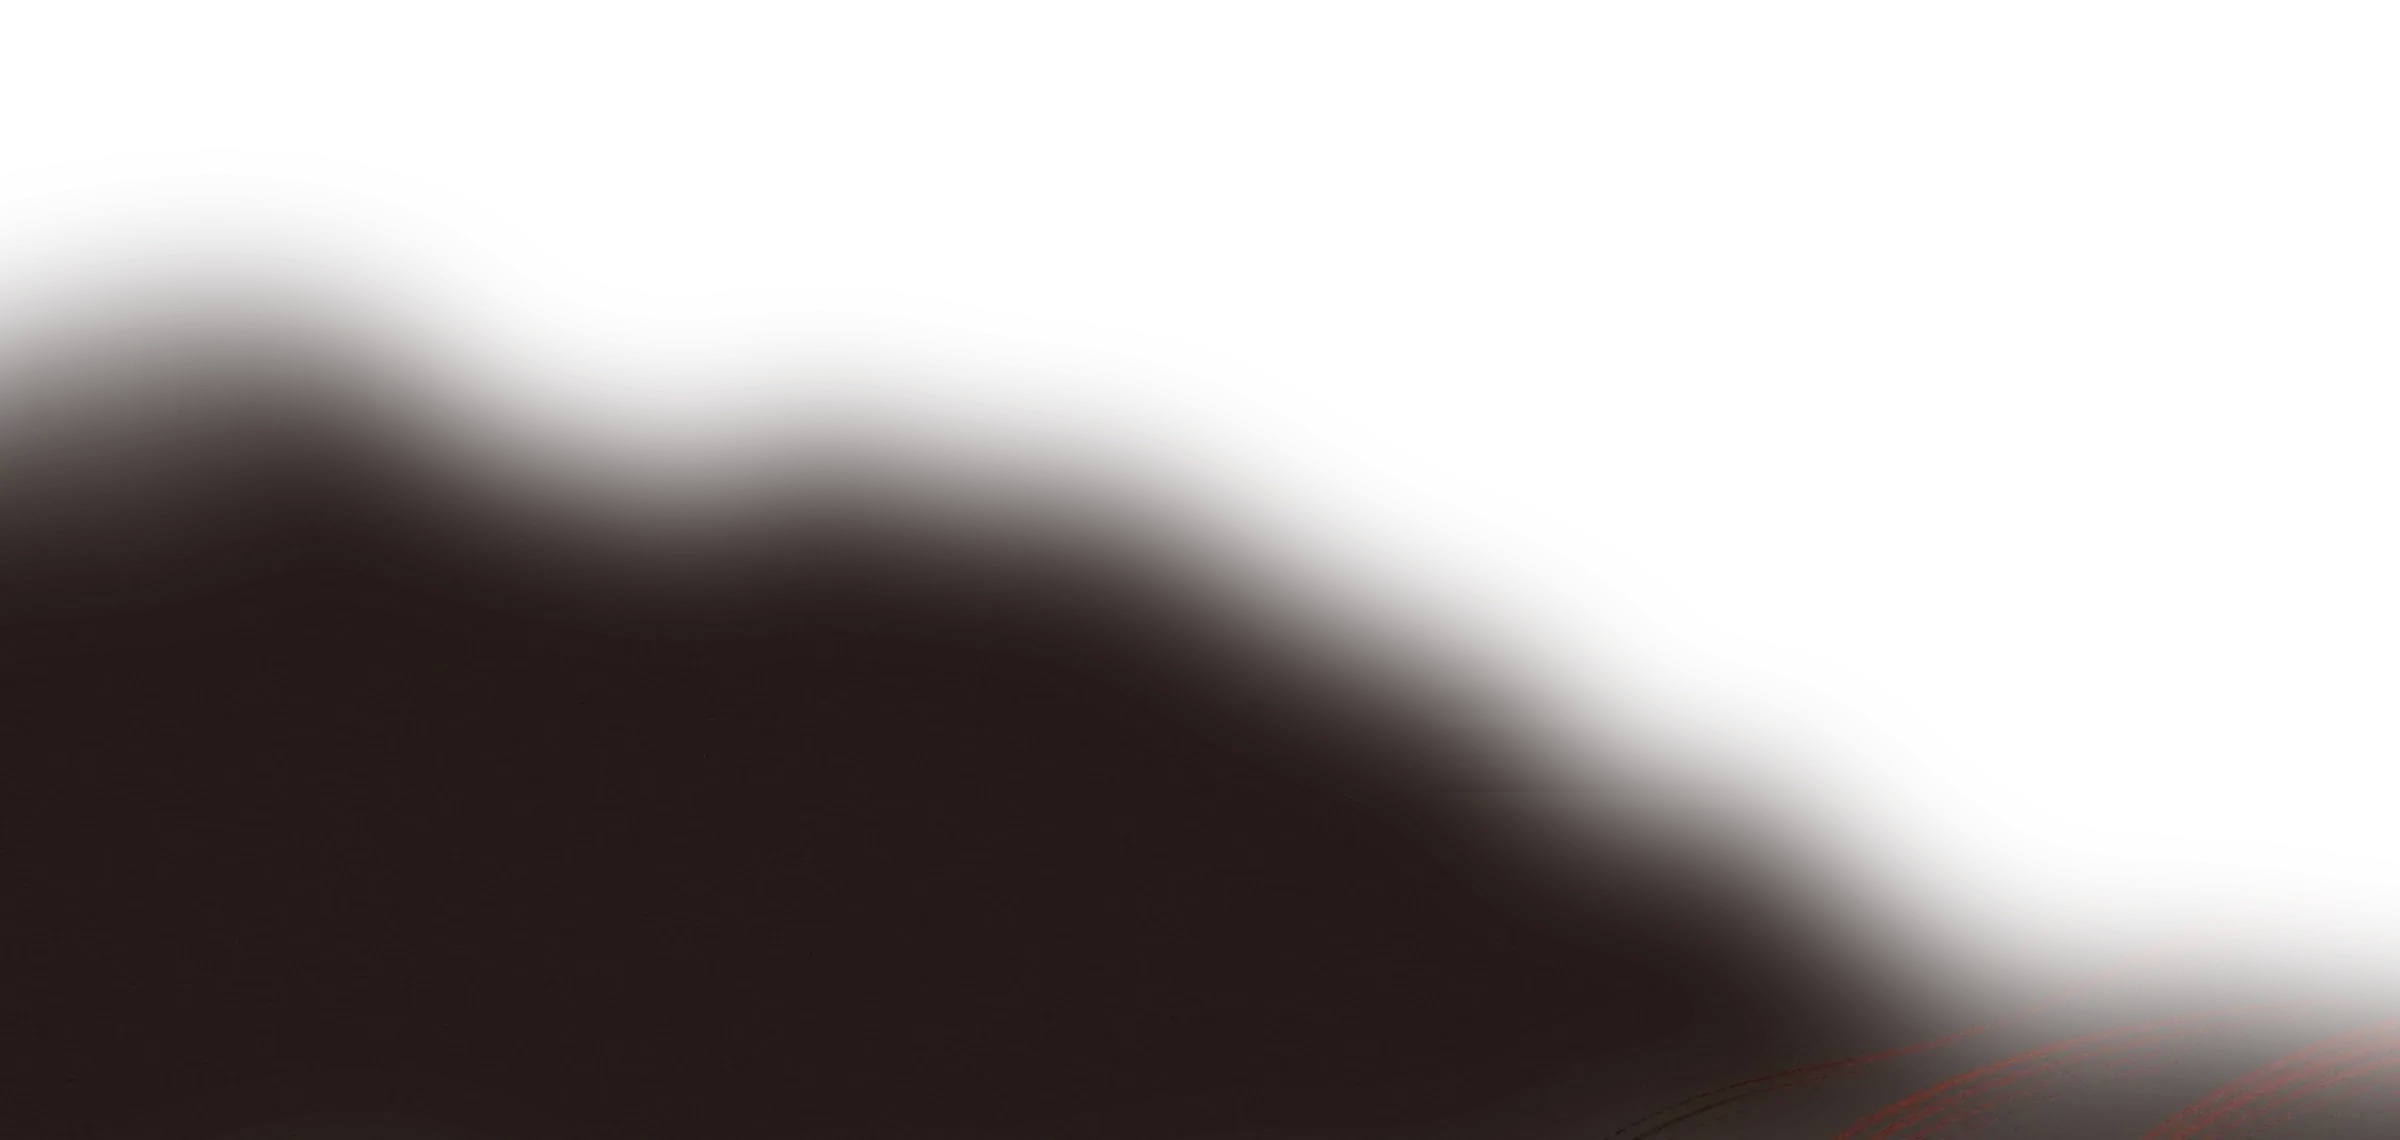
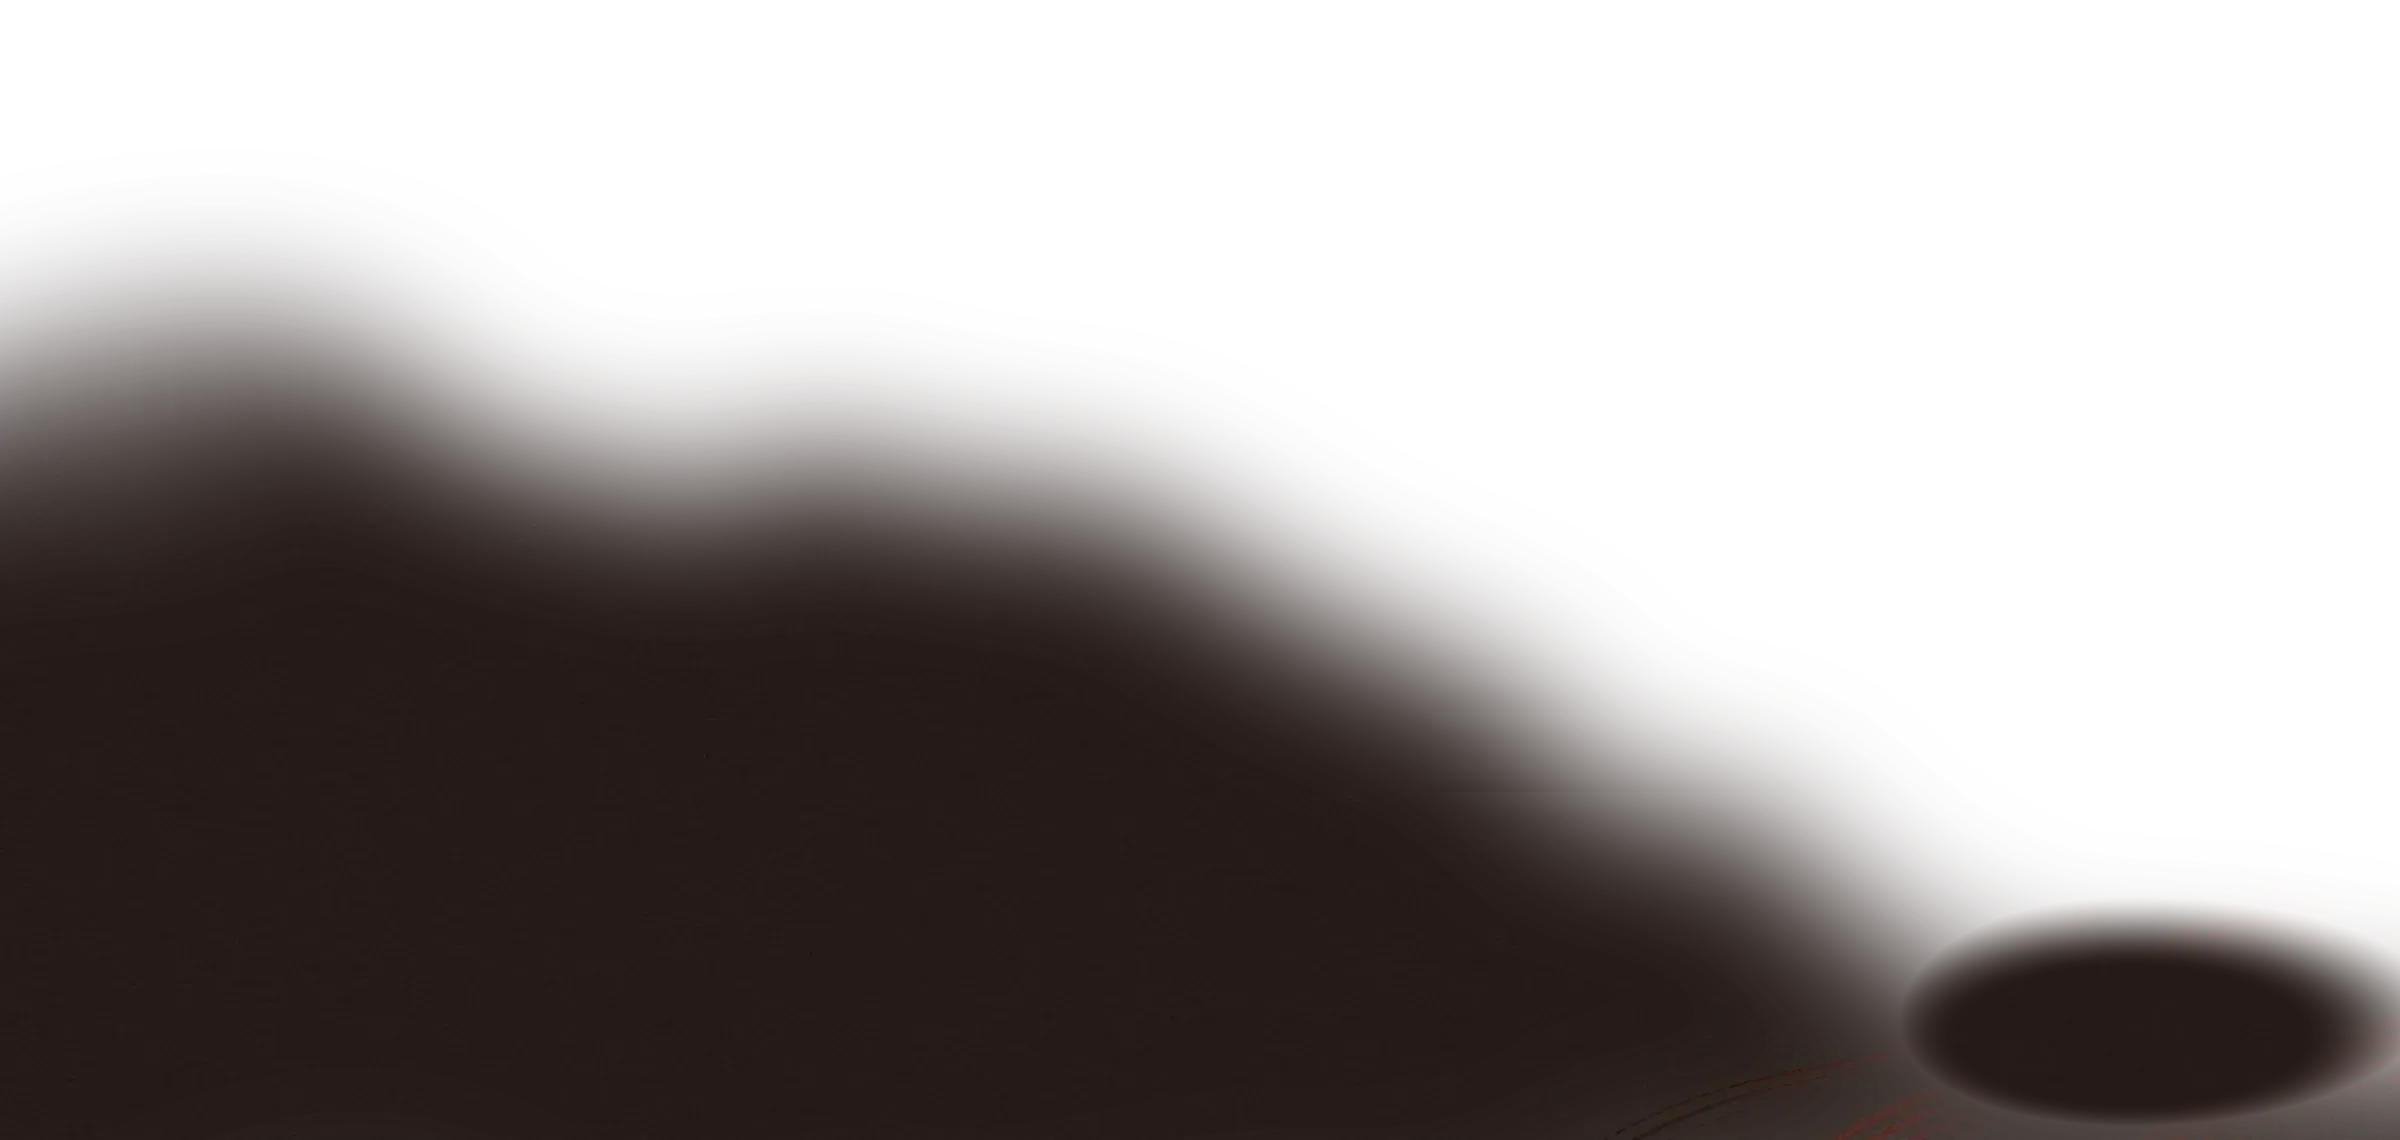
fix: Move the coming soon badge to the top right corner

Changed region(s): [[0.7812, 0.7982, 1.0, 0.9825]]

diff --git a/src/features/home/components/topic-section/ArticleListItem.tsx b/src/features/home/components/topic-section/ArticleListItem.tsx
@@ -26,7 +26,7 @@ export function ArticleListItem({ topic, article }: Props) {
                 className="h-auto w-full"
               />
               {!isPublished && (
-                <Badge variant="overlay" className="absolute top-3 left-3">
+                <Badge variant="overlay" className="absolute top-1.5 right-1.5">
                   Coming soon
                 </Badge>
               )}
